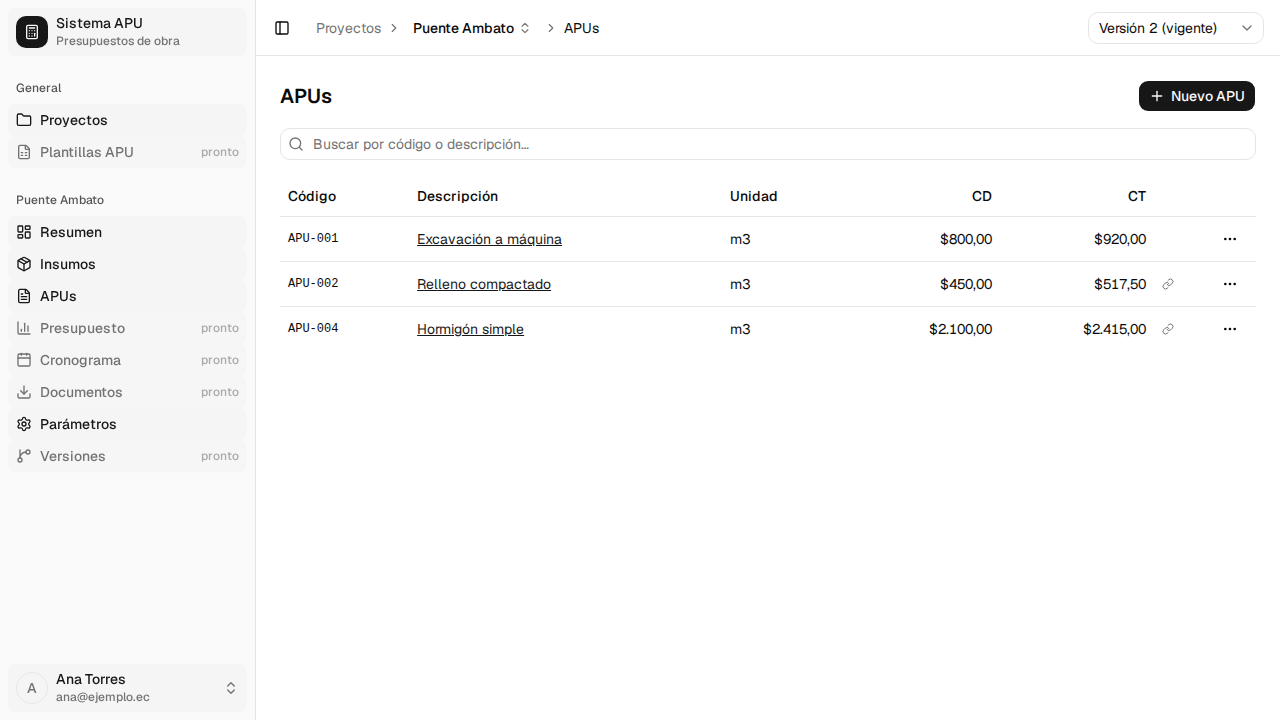
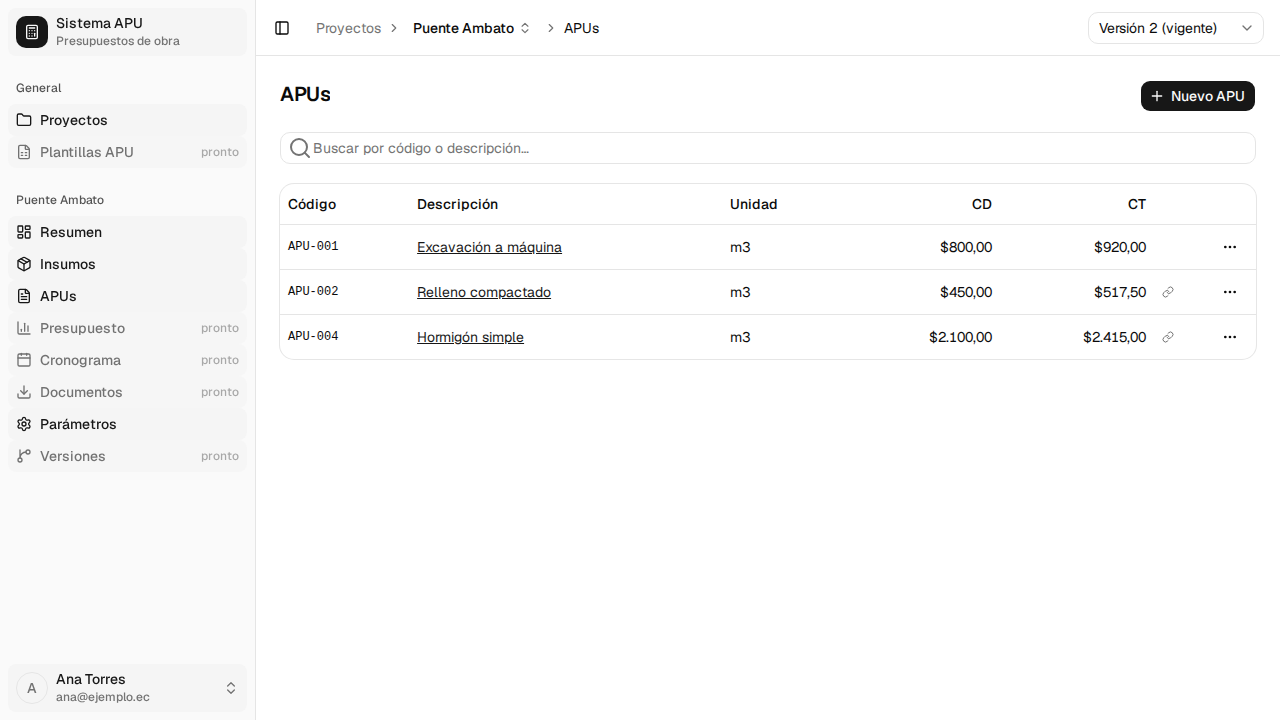
fix: concordancia en los avisos de modulo no disponible
La plantilla de ModuloNoDisponible conjuga en singular ("todavia no esta
disponible"), asi que los cuatro nombres en plural quedaban mal.

diff --git a/src/features/presupuesto/pages/VersionesPage.tsx b/src/features/presupuesto/pages/VersionesPage.tsx
@@ -31,7 +31,7 @@ export function VersionesPage() {
     <>
       <EncabezadoPagina titulo="Versiones del presupuesto" />
       <ModuloNoDisponible
-        modulo="Las versiones del presupuesto"
+        modulo="La lista de versiones del presupuesto"
         descripcion="El servidor todavía no expone la lista de versiones de un proyecto. La pantalla está construida y se activará cuando el endpoint exista."
       />
     </>

diff --git a/src/features/admin/pages/AdminValoresPage.tsx b/src/features/admin/pages/AdminValoresPage.tsx
@@ -24,7 +24,7 @@ export function AdminValoresPage() {
     <>
       <EncabezadoPagina titulo="Valores de referencia" />
       <ModuloNoDisponible
-        modulo="Los valores de referencia"
+        modulo="La tabla de valores de referencia"
         descripcion="El servidor todavía no expone los valores de referencia del sistema. La pantalla está construida y se activará cuando el endpoint exista."
       />
     </>

diff --git a/src/features/admin/pages/AdminPlantillasPage.tsx b/src/features/admin/pages/AdminPlantillasPage.tsx
@@ -28,7 +28,7 @@ export function AdminPlantillasPage() {
     <>
       <EncabezadoPagina titulo="Plantillas del sistema" />
       <ModuloNoDisponible
-        modulo="Las plantillas del sistema"
+        modulo="La gestión de plantillas del sistema"
         descripcion="El servidor todavía no expone las plantillas de sistema. La pantalla está construida y se activará cuando el endpoint exista."
       />
     </>

diff --git a/src/features/plantillas/pages/MisPlantillasPage.tsx b/src/features/plantillas/pages/MisPlantillasPage.tsx
@@ -39,7 +39,7 @@ export function MisPlantillasPage() {
     <>
       <EncabezadoPagina titulo="Mis plantillas" />
       <ModuloNoDisponible
-        modulo="Las plantillas de APU"
+        modulo="La biblioteca de plantillas de APU"
         descripcion="El servidor todavía no expone las plantillas de APU. La pantalla está construida y se activará cuando el endpoint exista."
       />
     </>
